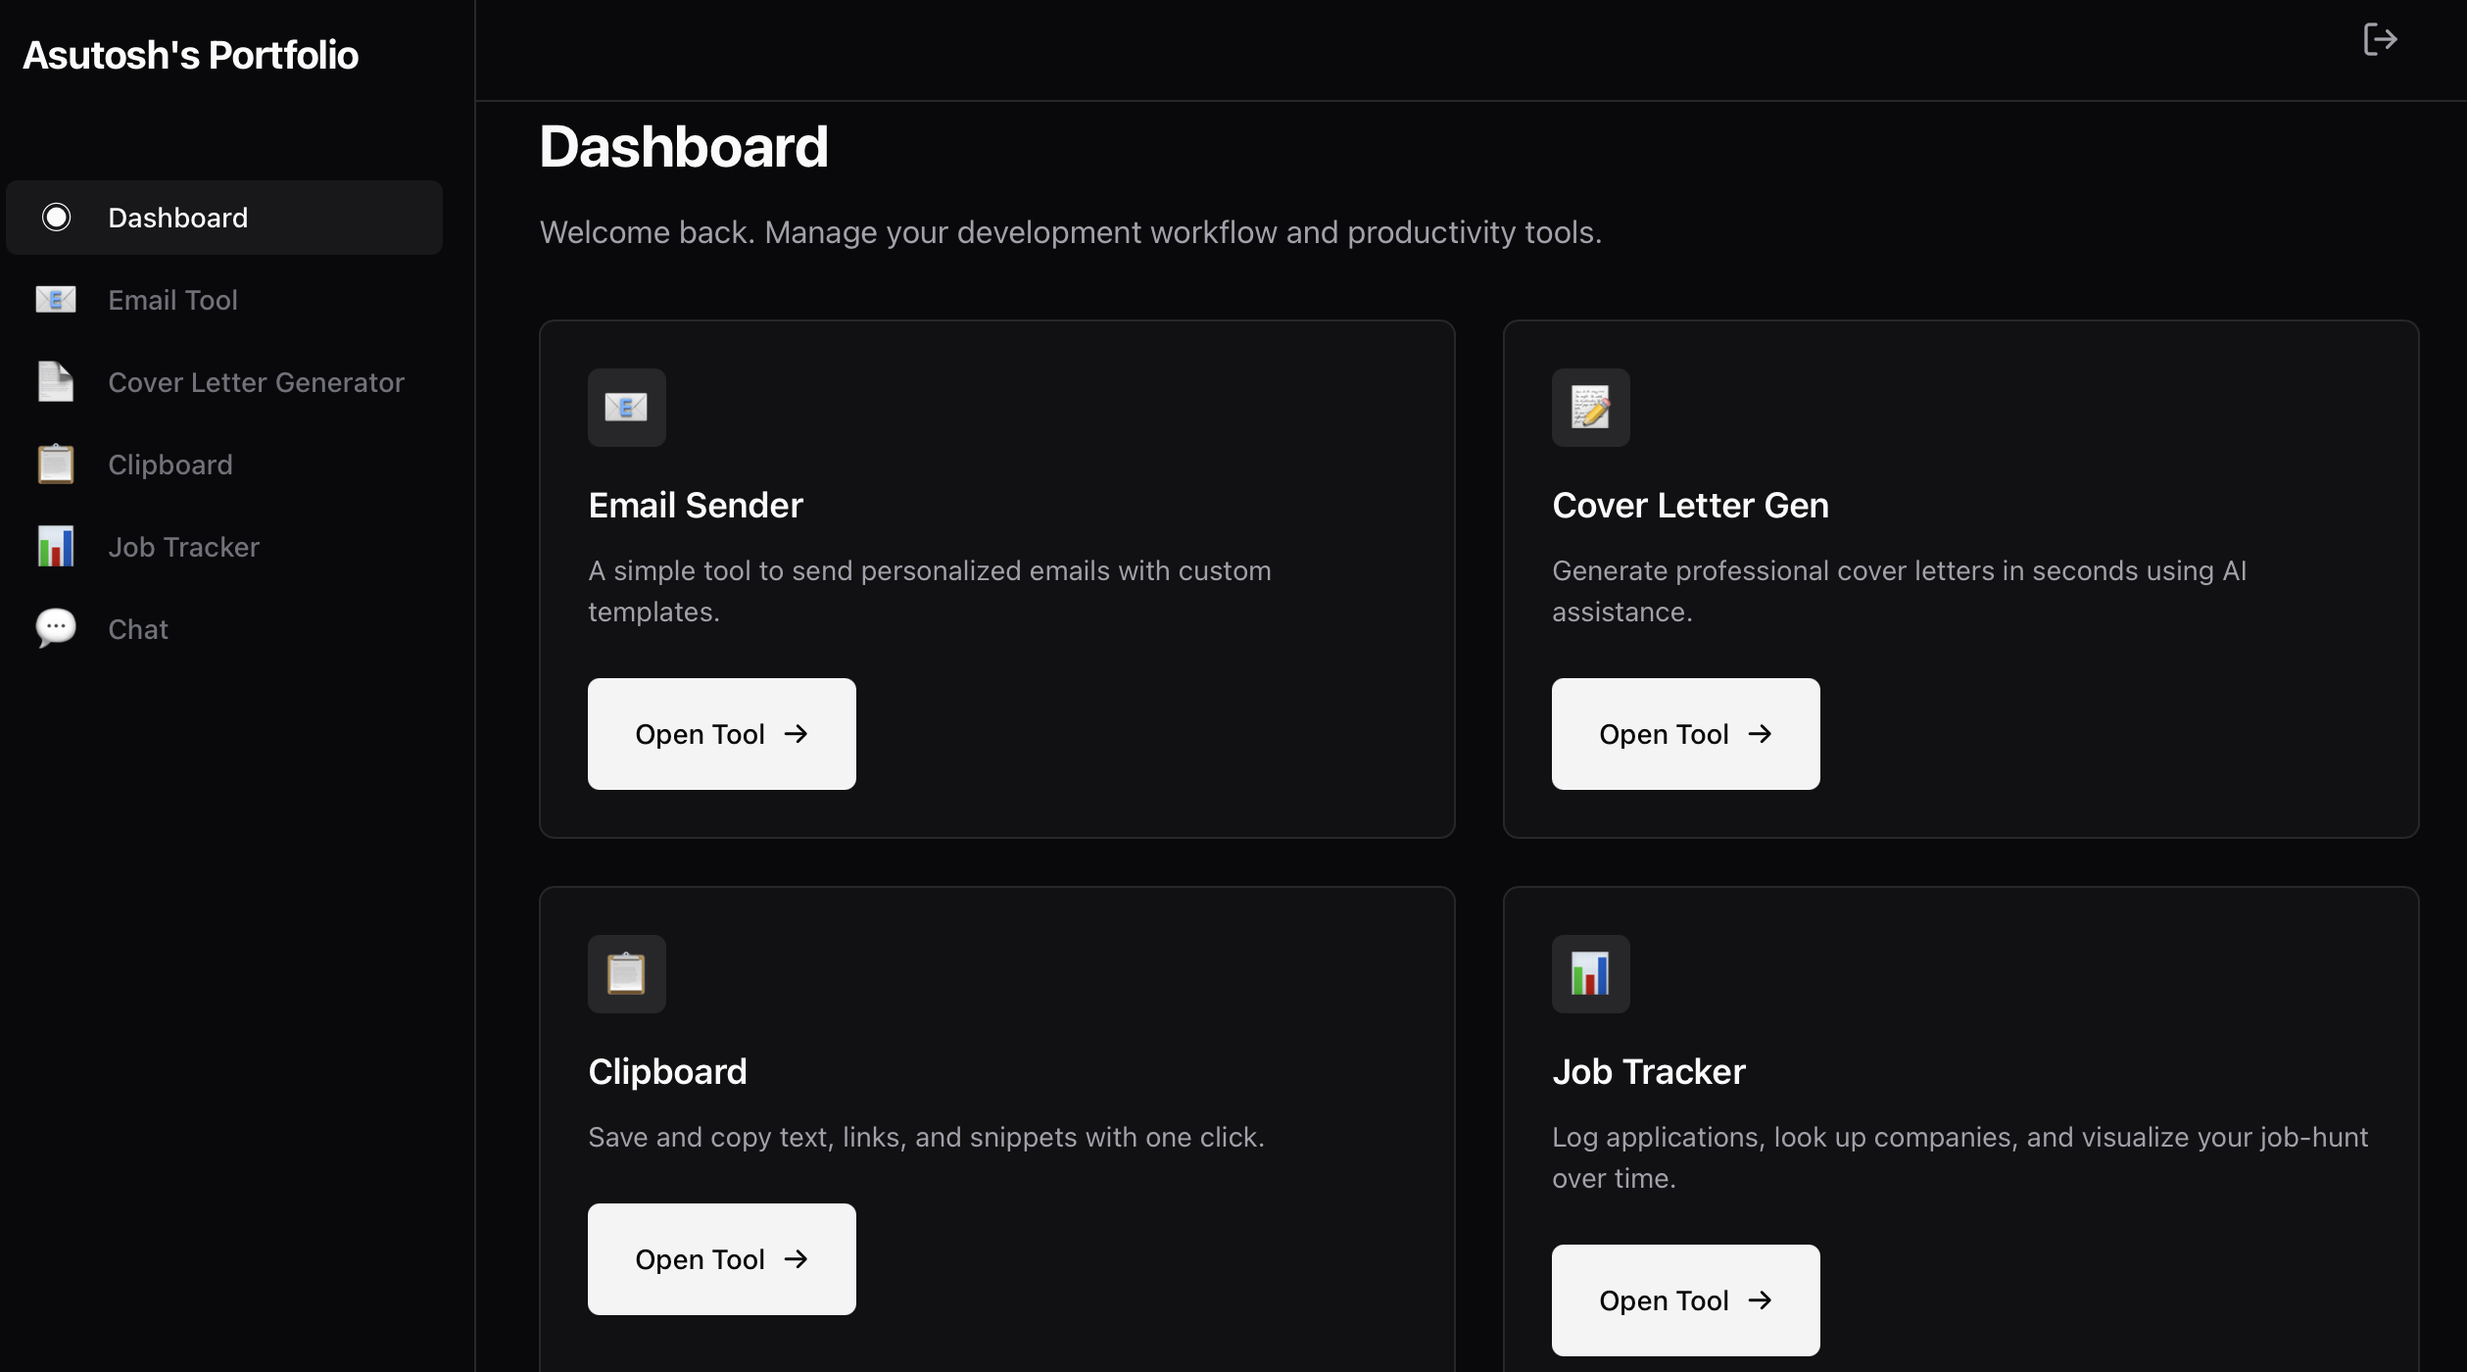
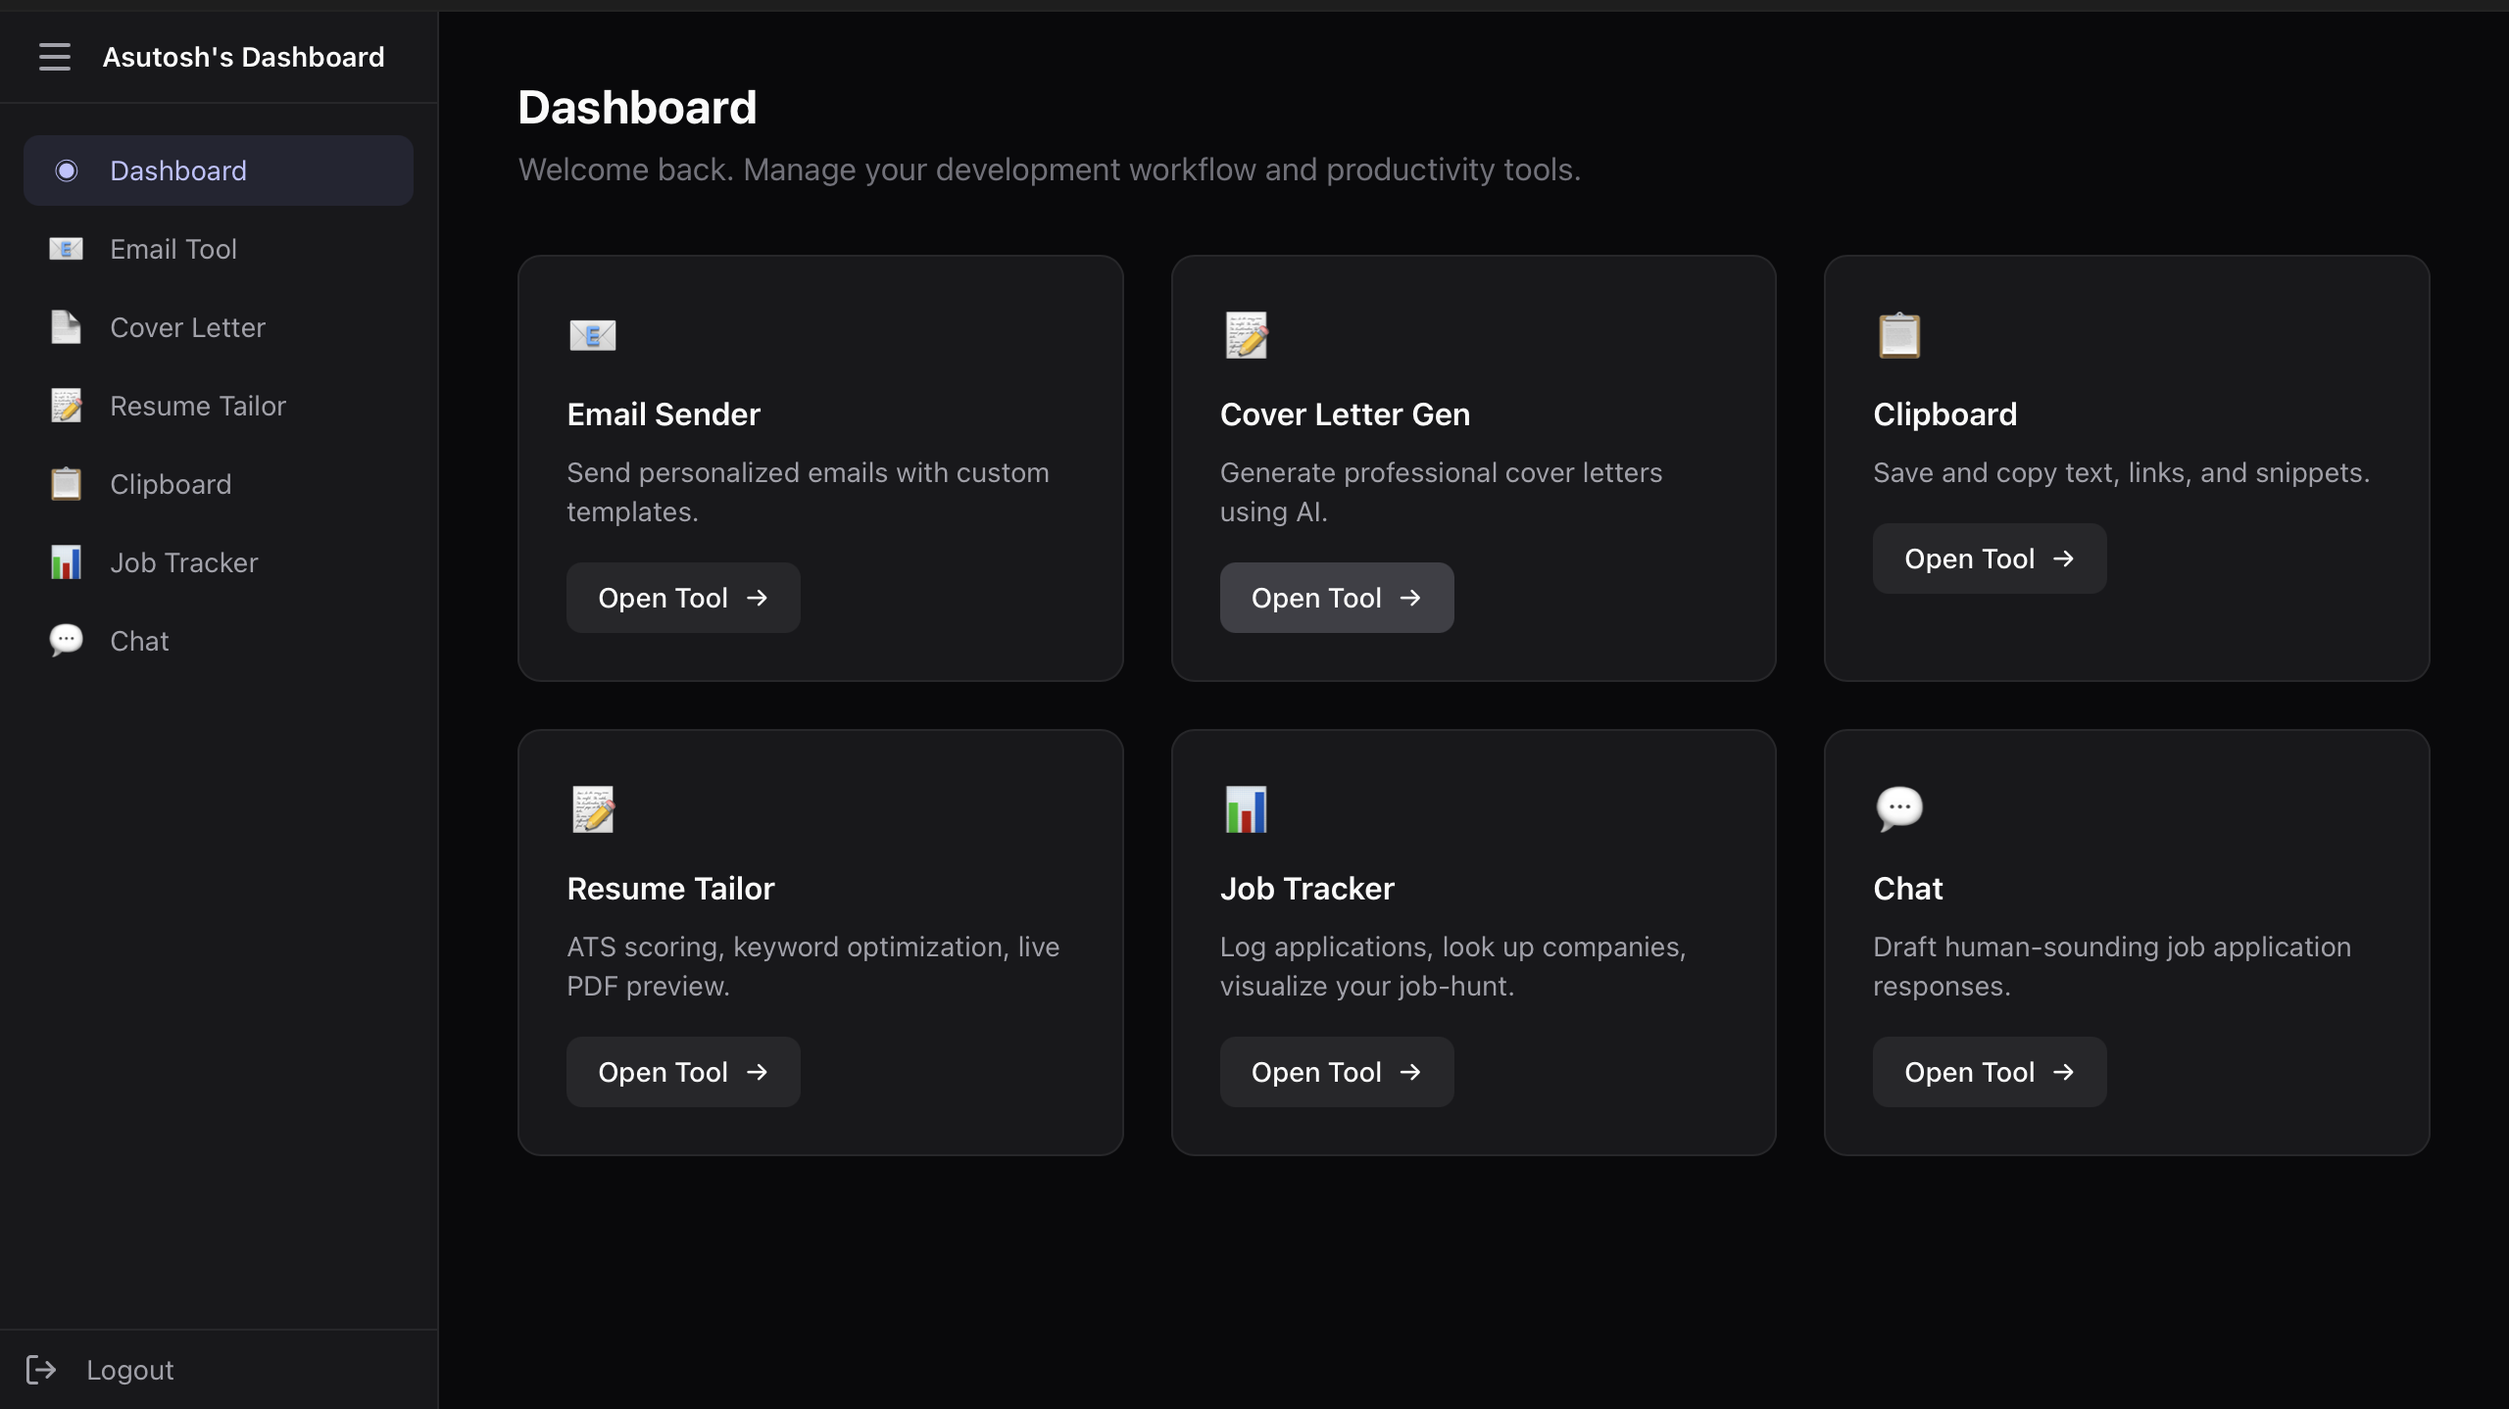
fixed emailer bug, updated readme, new version

diff --git a/internal/email/gmail.go b/internal/email/gmail.go
@@ -3,9 +3,7 @@ package email
 import (
 	"context"
 	"encoding/base64"
-	"encoding/json"
 	"fmt"
-	"os"
 	"time"
 
 	"golang.org/x/oauth2"
@@ -14,11 +12,23 @@ import (
 )
 
 type GmailProvider struct {
-	tokenPath string
+	accessToken  string
+	refreshToken string
+	clientID     string
+	clientSecret string
+	tokenURI     string
+	expiry       string
 }
 
-func NewGmailProvider(tokenPath string) *GmailProvider {
-	return &GmailProvider{tokenPath: tokenPath}
+func NewGmailProvider(accessToken, refreshToken, clientID, clientSecret, tokenURI, expiry string) *GmailProvider {
+	return &GmailProvider{
+		accessToken:  accessToken,
+		refreshToken: refreshToken,
+		clientID:     clientID,
+		clientSecret: clientSecret,
+		tokenURI:     tokenURI,
+		expiry:       expiry,
+	}
 }
 
 func (p *GmailProvider) Send(fromEmail, toEmail, name, company string) (string, error) {
@@ -27,7 +37,7 @@ func (p *GmailProvider) Send(fromEmail, toEmail, name, company string) (string, 
 		return "", fmt.Errorf("build message: %w", err)
 	}
 
-	creds, err := getGmailCredentials(p.tokenPath)
+	creds, err := p.getToken()
 	if err != nil {
 		return "", err
 	}
@@ -50,73 +60,25 @@ func (p *GmailProvider) Send(fromEmail, toEmail, name, company string) (string, 
 	return "Gmail API", nil
 }
 
-func getGmailCredentials(tokenPath string) (*oauth2.Token, error) {
-	targetPath := tokenPath
-	if targetPath == "" {
-		targetPath = "token.json"
+func (p *GmailProvider) getToken() (*oauth2.Token, error) {
+	if p.accessToken == "" || p.refreshToken == "" {
+		return nil, fmt.Errorf("Gmail OAuth2 credentials not configured. Set GMAIL_ACCESS_TOKEN and GMAIL_REFRESH_TOKEN in .env")
 	}
 
-	if _, err := os.Stat(targetPath); os.IsNotExist(err) {
-		return nil, fmt.Errorf("Gmail token file not found at %s. Copy your token.json to the working directory or set GMAIL_TOKEN_PATH in .env", targetPath)
-	}
-
-	credsData, err := os.ReadFile(targetPath)
+	expiry, err := time.Parse(time.RFC3339Nano, p.expiry)
 	if err != nil {
-		return nil, fmt.Errorf("read token: %w", err)
-	}
-	_ = os.Chmod(targetPath, 0o600)
-
-	var pt struct {
-		Token        string   `json:"token"`
-		RefreshToken string   `json:"refresh_token"`
-		TokenURI     string   `json:"token_uri"`
-		ClientID     string   `json:"client_id"`
-		ClientSecret string   `json:"client_secret"`
-		Scopes       []string `json:"scopes"`
-		Expiry       string   `json:"expiry"`
-	}
-
-	if err := json.Unmarshal(credsData, &pt); err != nil {
-		return nil, fmt.Errorf("parse token: %w", err)
-	}
-
-	expiry, err := time.Parse(time.RFC3339Nano, pt.Expiry)
-	if err != nil {
-		expiry, err = time.Parse(time.RFC3339, pt.Expiry)
+		expiry, err = time.Parse(time.RFC3339, p.expiry)
 		if err != nil {
 			return nil, fmt.Errorf("parse expiry: %w", err)
 		}
 	}
 
 	token := &oauth2.Token{
-		AccessToken:  pt.Token,
+		AccessToken:  p.accessToken,
 		TokenType:    "Bearer",
-		RefreshToken: pt.RefreshToken,
+		RefreshToken: p.refreshToken,
 		Expiry:       expiry,
 	}
 
-	conf := &oauth2.Config{
-		ClientID:     pt.ClientID,
-		ClientSecret: pt.ClientSecret,
-		Endpoint: oauth2.Endpoint{
-			TokenURL: pt.TokenURI,
-		},
-		Scopes: pt.Scopes,
-	}
-
-	tokenSource := conf.TokenSource(context.Background(), token)
-	newToken, err := tokenSource.Token()
-	if err != nil {
-		return nil, fmt.Errorf("refresh token: %w", err)
-	}
-
-	if newToken.AccessToken != pt.Token {
-		pt.Token = newToken.AccessToken
-		pt.RefreshToken = newToken.RefreshToken
-		pt.Expiry = newToken.Expiry.Format(time.RFC3339Nano)
-		updated, _ := json.Marshal(pt)
-		_ = os.WriteFile(targetPath, updated, 0o600)
-	}
-
-	return newToken, nil
+	return token, nil
 }

diff --git a/internal/config/config.go b/internal/config/config.go
@@ -41,7 +41,12 @@ type Config struct {
 	Password         string
 	UniversityEmail  string
 	PersonalEmail    string
-	GmailTokenPath   string
+	GmailAccessToken  string
+	GmailRefreshToken string
+	GmailClientID     string
+	GmailClientSecret string
+	GmailTokenURI     string
+	GmailExpiry       string
 	DefaultSenderKey string
 
 	// Resume
@@ -99,7 +104,12 @@ func Load() (*Config, error) {
 		Password:                getEnv("PASSWORD", ""),
 		UniversityEmail:         getEnv("UNIVERSITY_EMAIL", ""),
 		PersonalEmail:           getEnv("PERSONAL_EMAIL", ""),
-		GmailTokenPath:          getEnv("GMAIL_TOKEN_PATH", "../token.json"),
+		GmailAccessToken:        getEnv("GMAIL_ACCESS_TOKEN", ""),
+		GmailRefreshToken:       getEnv("GMAIL_REFRESH_TOKEN", ""),
+		GmailClientID:           getEnv("GMAIL_CLIENT_ID", ""),
+		GmailClientSecret:       getEnv("GMAIL_CLIENT_SECRET", ""),
+		GmailTokenURI:           getEnv("GMAIL_TOKEN_URI", "https://oauth2.googleapis.com/token"),
+		GmailExpiry:             getEnv("GMAIL_EXPIRY", ""),
 		DefaultSenderKey:        getEnv("DEFAULT_SENDER_KEY", "university"),
 		ResumePath:              getEnv("RESUME_PATH", ""),
 		ResumeFilename:          getEnv("RESUME_FILENAME", "ASUTOSH_DALEI_RESUME.pdf"),

diff --git a/internal/email/handler.go b/internal/email/handler.go
@@ -12,12 +12,22 @@ import (
 )
 
 type Handler struct {
-	svc  *Service
-	tmpl *template.Template
+	svc    *Service
+	tmpl   *template.Template
+	config *GmailConfig
 }
 
-func NewHandler(svc *Service, tmpl *template.Template) *Handler {
-	return &Handler{svc: svc, tmpl: tmpl}
+type GmailConfig struct {
+	AccessToken  string
+	RefreshToken string
+	ClientID     string
+	ClientSecret string
+	TokenURI     string
+	Expiry       string
+}
+
+func NewHandler(svc *Service, tmpl *template.Template, gmailConfig *GmailConfig) *Handler {
+	return &Handler{svc: svc, tmpl: tmpl, config: gmailConfig}
 }
 
 func (h *Handler) HandleTool(w http.ResponseWriter, r *http.Request) {
@@ -53,7 +63,14 @@ func (h *Handler) HandleSend(w http.ResponseWriter, r *http.Request) {
 		req.SenderKey = "university"
 	}
 
-	provider := NewGmailProvider("")
+	provider := NewGmailProvider(
+		h.config.AccessToken,
+		h.config.RefreshToken,
+		h.config.ClientID,
+		h.config.ClientSecret,
+		h.config.TokenURI,
+		h.config.Expiry,
+	)
 	senderLabel, err := h.svc.Send(req.Email, req.Name, req.Company, strings.ToLower(strings.TrimSpace(req.SenderKey)), provider)
 	if err != nil {
 		middleware.RespondJSONAPI(w, r, http.StatusInternalServerError, false, "", "", err)

diff --git a/main.go b/main.go
@@ -127,7 +127,15 @@ func main() {
 	authHandler := auth.NewHandler(sessionStore, cfg.AccessPasskey, templates)
 
 	emailSvc := email.NewService(cfg.UniversityEmail, cfg.PersonalEmail, cfg.DefaultSenderKey)
-	emailHandler := email.NewHandler(emailSvc, templates)
+	gmailConfig := &email.GmailConfig{
+		AccessToken:  cfg.GmailAccessToken,
+		RefreshToken: cfg.GmailRefreshToken,
+		ClientID:     cfg.GmailClientID,
+		ClientSecret: cfg.GmailClientSecret,
+		TokenURI:     cfg.GmailTokenURI,
+		Expiry:       cfg.GmailExpiry,
+	}
+	emailHandler := email.NewHandler(emailSvc, templates, gmailConfig)
 
 	coverLetterSvc := coverletter.NewService()
 	coverLetterHandler := coverletter.NewHandler(coverLetterSvc, templates)

diff --git a/README.md b/README.md
@@ -11,16 +11,18 @@ A self-hosted web dashboard for sending job application emails, generating cover
 - **Job Tracker** — CRUD + stats + timeline + natural-language SQL query against Supabase
 - **Clipboard** — save and copy text snippets
 - **LLM Chat** — persistent chat sessions with OpenRouter models
-- **Passkey auth** session-based login
+- **Resume Tailor** — ATS scoring, keyword optimization, live PDF preview
+- **Passkey auth** — session-based login
 
 ## CI/CD
 
 Every push to `main` triggers a GitHub Actions workflow that:
 
-1. Cross-compiles the Go binary for `linux/arm64`
-2. Injects `.env`, `credentials.json`, `token.json` from repository secrets
-3. Bundles everything into `myapp-linux-arm64.tar.gz`
-4. Creates a GitHub Release with the tarball attached
+1. Runs tests
+2. Cross-compiles the Go binary for `linux/arm64`
+3. Injects `.env` from repository secrets
+4. Bundles everything into `myapp-linux-arm64.tar.gz`
+5. Creates a GitHub Release with the tarball attached
 
 ## Deploy on Raspberry Pi
 
@@ -38,32 +40,37 @@ echo 'ghp_xxx' > ~/.github_token && chmod 600 ~/.github_token
 ## Local Build
 
 ```bash
-GOOS=linux GOARCH=arm64 CGO_ENABLED=0 go build \
-  -ldflags="-s -w -X main.buildTime=$(date -u +%Y-%m-%dT%H:%M:%SZ) -X main.commitHash=$(git rev-parse --short HEAD)" \
-  -o pi_bundle/pi_portfolio_arm64
+./build.sh
 ```
 
 ## Project Structure
 
 ```
-├── main.go                 # HTTP server, routes, auth
-├── email.go                # Email sending (SMTP + Gmail API)
-├── coverletter.go          # Cover letter PDF generation
-├── tracker.go              # Job tracker handlers
-├── tracker_query.go        # NL-to-SQL query endpoint
-├── clipboard.go            # Clipboard tool
-├── llm_chat.go             # OpenRouter chat with sessions
-├── oauth.go                # Gmail OAuth token management
-├── auth_limit.go           # Login rate limiter
-├── db_backup.go            # Automated database backups
-├── http_meta.go            # Security headers + request IDs
-├── runtime_templates.go    # Embed + disk fallback templates
-├── templates/              # HTML templates + email/LaTeX templates
-├── static/                 # Embedded CSS/JS
-├── sql/                    # Optional DB scripts
-├── deploy.sh               # Pull-based updater for the Pi
-├── .github/workflows/      # GitHub Actions CI/CD
-└── pi_bundle/              # Local deployment folder
+├── main.go                    # HTTP server, routes, auth
+├── internal/
+│   ├── auth/                  # Passkey authentication
+│   ├── clipboard/             # Clipboard tool
+│   ├── config/                # Environment config
+│   ├── coverletter/           # Cover letter PDF generation
+│   ├── database/              # DB connection + migrations
+│   ├── email/                 # Email sending (SMTP + Gmail API)
+│   ├── llm/                   # LLM service (OpenRouter/Ollama)
+│   ├── middleware/             # Auth, rate-limiting, logging
+│   ├── router/                # HTTP router
+│   ├── tracker/               # Job tracker
+│   └── workspace/             # Workspace/chat features
+├── pkg/
+│   ├── mail/                  # Email templates
+│   ├── ollama/                # Ollama client
+│   ├── openrouter/            # OpenRouter client
+│   └── observability/         # Logging
+├── templates/                 # HTML templates
+├── web/static/                # Tailwind CSS source
+├── static/                    # Compiled CSS/JS
+├── sql/                       # DB scripts
+├── deploy.sh                  # Pull-based updater for Pi
+├── build.sh                   # Local build script
+└── .github/workflows/         # GitHub Actions CI/CD
 ```
 
 ## Configuration
@@ -72,18 +79,28 @@ Create a `.env` file with your secrets. Required variables:
 
 | Variable | Description |
 |----------|-------------|
-| `EMAIL` / `PASSWORD` | Gmail credentials |
-| `ACCESS_PASSKEY` | Web login passkey |
 | `DATABASE_URL` | Postgres connection URI |
-| `OPENROUTER_API_KEY` | For NL-to-SQL & chat features |
+| `ACCESS_PASSKEY` | Web login passkey |
+| `EMAIL` / `PASSWORD` | Gmail SMTP credentials |
+| `UNIVERSITY_EMAIL` / `PERSONAL_EMAIL` | Sender addresses |
+| `OPENROUTER_API_KEY` | For LLM features |
 
-For the CI/CD pipeline, store these in **GitHub Secrets** (`Settings → Secrets and variables → Actions`):
+Gmail API (OAuth) credentials:
+
+| Variable | Description |
+|----------|-------------|
+| `GMAIL_ACCESS_TOKEN` | OAuth2 access token |
+| `GMAIL_REFRESH_TOKEN` | OAuth2 refresh token |
+| `GMAIL_CLIENT_ID` | OAuth2 client ID |
+| `GMAIL_CLIENT_SECRET` | OAuth2 client secret |
+| `GMAIL_TOKEN_URI` | Token endpoint URL |
+| `GMAIL_EXPIRY` | Token expiry timestamp |
+
+For the CI/CD pipeline, store the full `.env` in **GitHub Secrets** (`Settings → Secrets and variables → Actions`):
 
 | Secret | Content |
 |--------|---------|
 | `PROD_ENV_FILE` | Full `.env` file contents |
-| `GOOGLE_CREDENTIALS` | `credentials.json` (one line) |
-| `GMAIL_TOKEN_JSON` | `token.json` (one line) |
 
 ## Tech Stack
 
@@ -93,3 +110,48 @@ For the CI/CD pipeline, store these in **GitHub Secrets** (`Settings → Secrets
 - **OpenRouter** — LLM API gateway
 - **ngrok** — public tunnel (optional)
 - **GitHub Actions** — cross-compile & release pipeline
+
+## Email API
+
+The emailer exposes a JSON API endpoint. It requires session authentication (login via the web UI first to get a `session_token` cookie).
+
+**Endpoint:** `POST /send-email`
+
+**Request body:**
+```json
+{
+  "name": "John Smith",
+  "company": "Google",
+  "email": "john@google.com",
+  "sender_key": "university"
+}
+```
+
+| Field | Required | Description |
+|-------|----------|-------------|
+| `name` | Yes | Recipient's name |
+| `company` | Yes | Target company |
+| `email` | Yes | Recipient's email address |
+| `sender_key` | No | `university` (default) or `personal` |
+
+**Example with curl:**
+```bash
+# First login to get session cookie
+curl -c cookies.txt -X POST https://your-domain:5001/login \
+  -d "passkey=your_passkey"
+
+# Send email
+curl -b cookies.txt -X POST https://your-domain:5001/send-email \
+  -H "Content-Type: application/json" \
+  -d '{"name":"John Smith","company":"Google","email":"john@google.com"}'
+```
+
+**Response (success):**
+```json
+{"success": true, "message": "Email sent via Gmail API"}
+```
+
+**Response (error):**
+```json
+{"success": false, "error": "Missing required fields"}
+```
